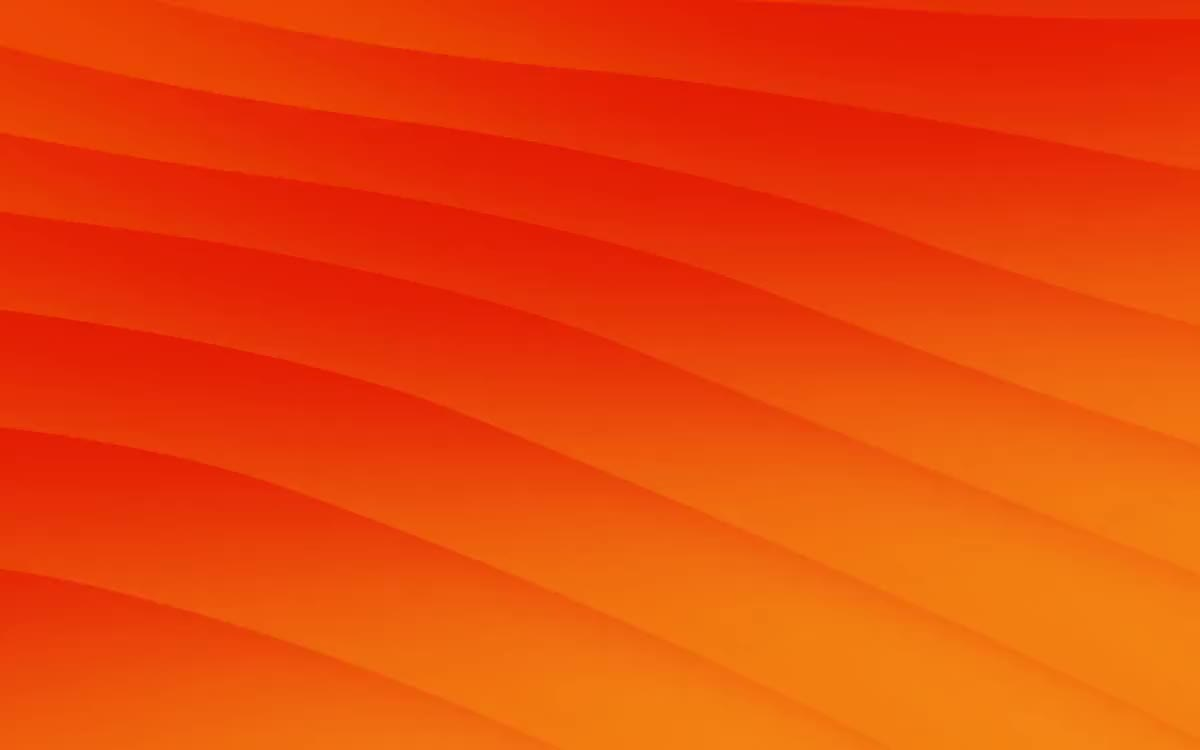
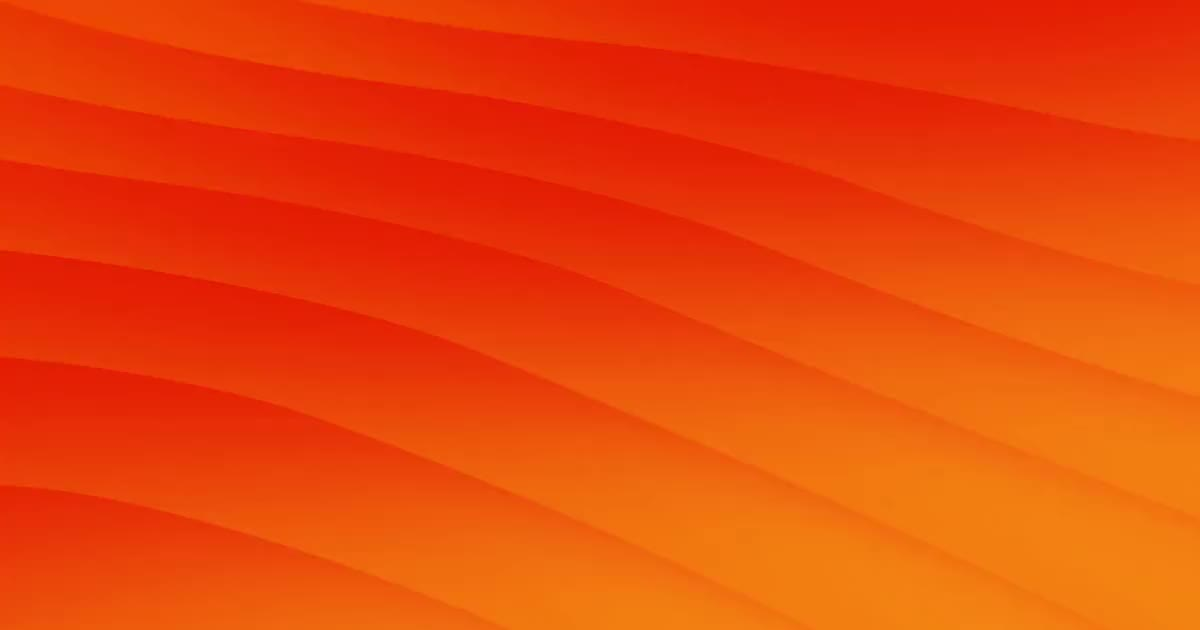
staging: Daylight thumbnail matches sibling cover aspect (1200x630)
Loop re-cropped from 8:5 to the 1200x630 OG ratio the other work
covers use; poster regenerated; video element aspect updated.

Claude-Session: https://claude.ai/code/session_01DGJTJLc1gTAxt5z5dxoc3a

diff --git a/work.html b/work.html
@@ -78,7 +78,7 @@
 
   <div class="w-layout-blockcontainer container-30 list-work w-container">
     <a href="daylight.html" class="w-inline-block" style="position:relative;display:block;overflow:hidden;border-radius:8px;border:1px solid rgba(200,200,200,0.35)">
-      <video autoplay loop muted playsinline preload="metadata" poster="images/daylight-cover-poster.jpg" style="display:block;width:100%;aspect-ratio:8/5;object-fit:cover;border:none;border-radius:0">
+      <video autoplay loop muted playsinline preload="metadata" poster="images/daylight-cover-poster.jpg" style="display:block;width:100%;aspect-ratio:1200/630;object-fit:cover;border:none;border-radius:0">
         <source src="images/daylight-cover-loop.mp4" type="video/mp4">
         <img src="images/daylight-cover-poster.jpg" alt="Daylight" style="border:none;border-radius:0">
       </video>